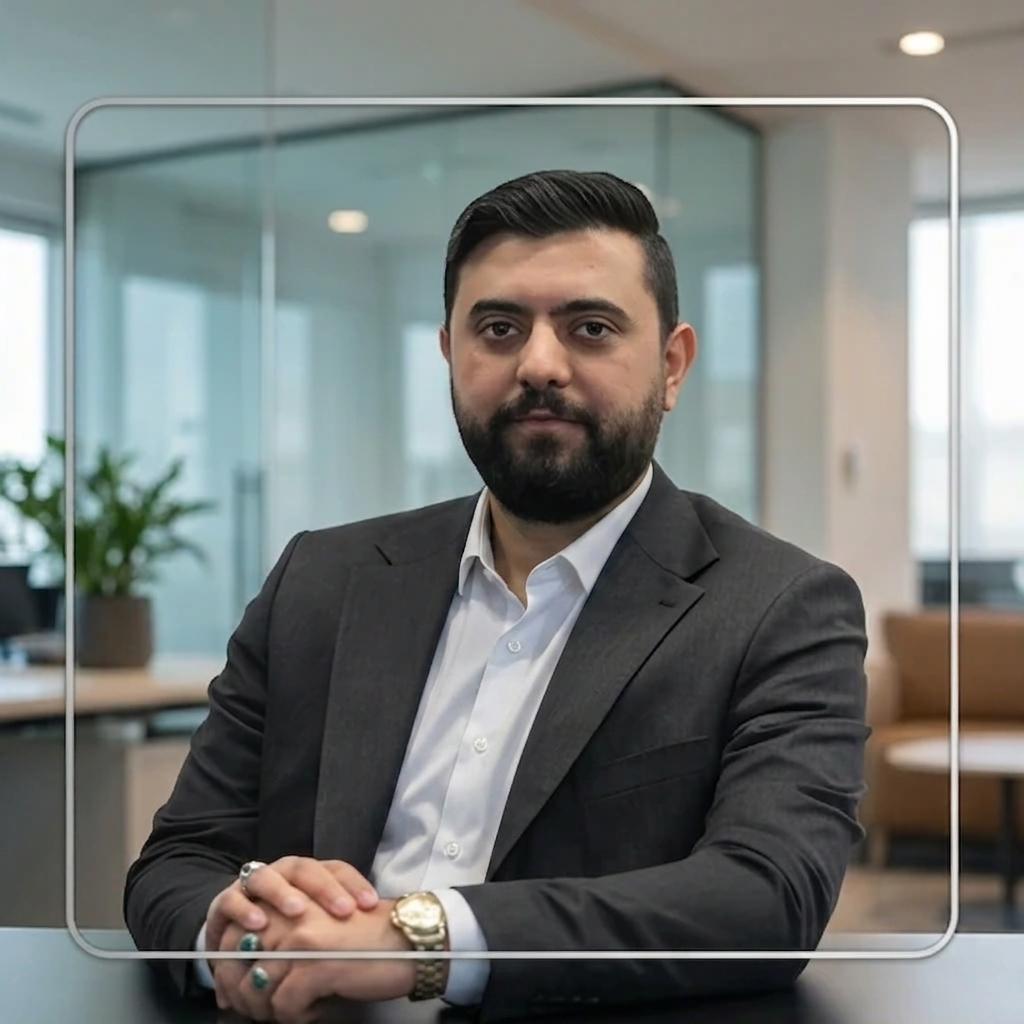
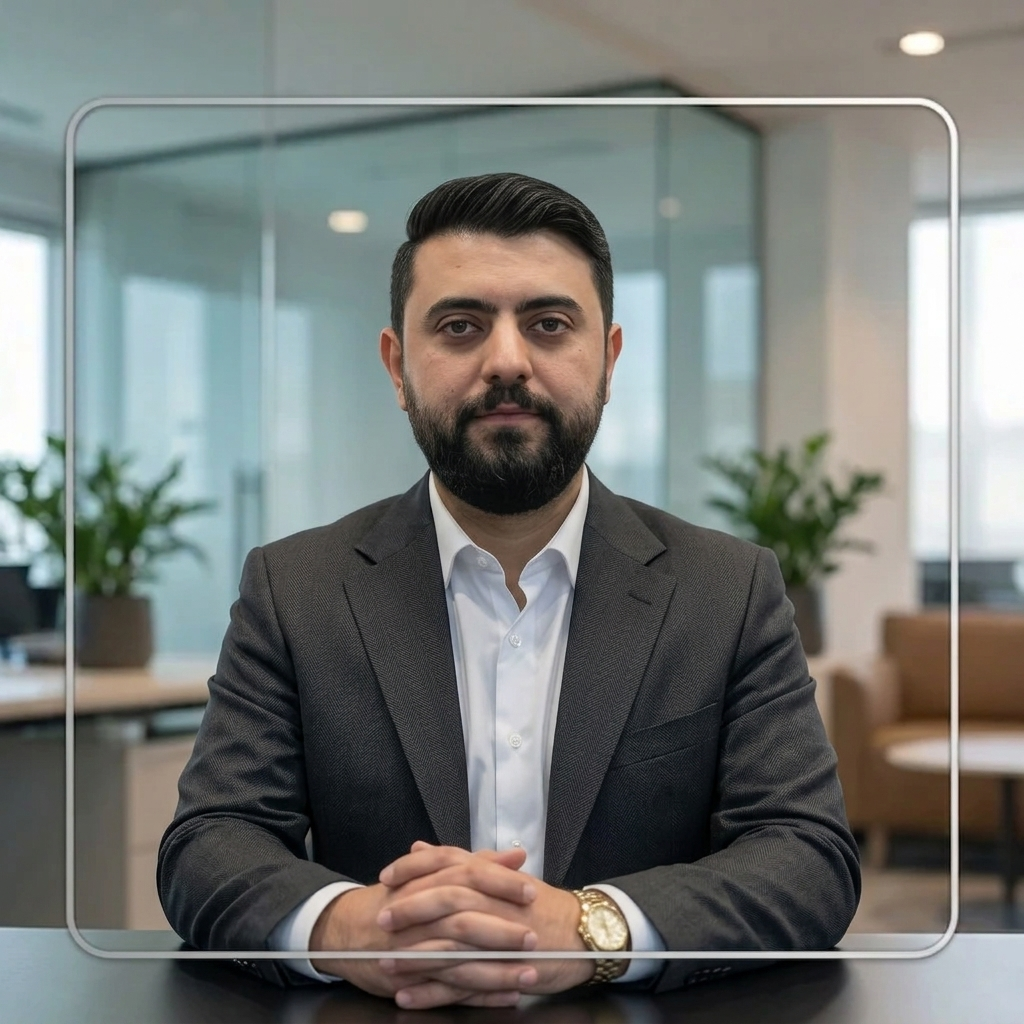
v1.0.20

Changed region(s): [[0.0938, 0.1562, 0.875, 1.0]]

diff --git a/public/site/assets/css/style.css b/public/site/assets/css/style.css
@@ -1048,6 +1048,7 @@ body.dark .theme-tool-btn.active {
     color: #64748b;
     font-size: 14px;
     line-height: 2;
+    text-align: justify;
 }
 
 /* News swiper */
@@ -5792,6 +5793,23 @@ body.dark .single-event-schedule-content:hover {
         font-size: 22px;
     }
 }
+.cta-btn{
+    width:180px;
+    height:60px;
+    border-radius:18px;
+    background:#14d8c4;
+    color:#07111f;
+    font-weight:800;
+    display:flex;
+    align-items:center;
+    justify-content:center;
+    transition:.3s;
+    z-index: 9;
+}
 
+.cta-btn:hover{
+    transform:translateY(-4px);
+    box-shadow:0 18px 40px rgba(20,216,196,.2);
+}
 
 

diff --git a/resources/views/layouts/base.blade.php b/resources/views/layouts/base.blade.php
@@ -33,9 +33,9 @@
             'logo_alt' => 'توسعه دانش بنیان سینا',
 
             'value_services_title' => 'خدمات ارزشآفرینی',
-            'service_1' => 'برگزاری کارگاه و رویداد و نمایشگاه',
-            'service_2' => 'مشاورههای تخصصی، آموزش و منتورینگ',
-            'service_3' => 'توسعه بازار و اتصال به صنایع',
+            'service_1' => 'توسعه بازار و اتصال به صنایع' ,
+            'service_2' => 'برگزاری کارگاه و رویداد و نمایشگاه' ,
+            'service_3' => 'مشاورههای تخصصی، آموزش و منتورینگ',
             'service_4' => 'تسهیلات و اعتبارات، پوشش ریسک دانشبنیانها',
 
             'footer_description' => 'شرکت توسعه دانشبنیان سینا به عنوان بازوی سرمایهگذاری خطرپذیر بنیاد مستضعفان انقلاب اسلامی در قالب هلدینگ تحقیق و توسعه دانشمند به ارائه خدمات در حوزه رفع نیازها و چالشهای فناورانه شرکتهای تابعه بنیاد مستضعفان، رفع مسائل حوزه محرومیتزدایی به روش مبتکرانه و همچنین حل نیازهای راهبردی ملی میپردازد.',

diff --git a/resources/views/site/fa/index.blade.php b/resources/views/site/fa/index.blade.php
@@ -386,8 +386,9 @@
                 <h2>ارسال طرح و مدارک جهت جذب سرمایه</h2>
             </div>
 
-            <button type="submit"><a href="{{'https://bestsheet.ir'}}">ثبت و ارسال</a></button>
+            <a href="https://bestsheet.ir" target="_blank" rel="noopener noreferrer" class="cta-btn">
+                ثبت و ارسال
+            </a>
         </div>
     </section>
-
 @endsection
